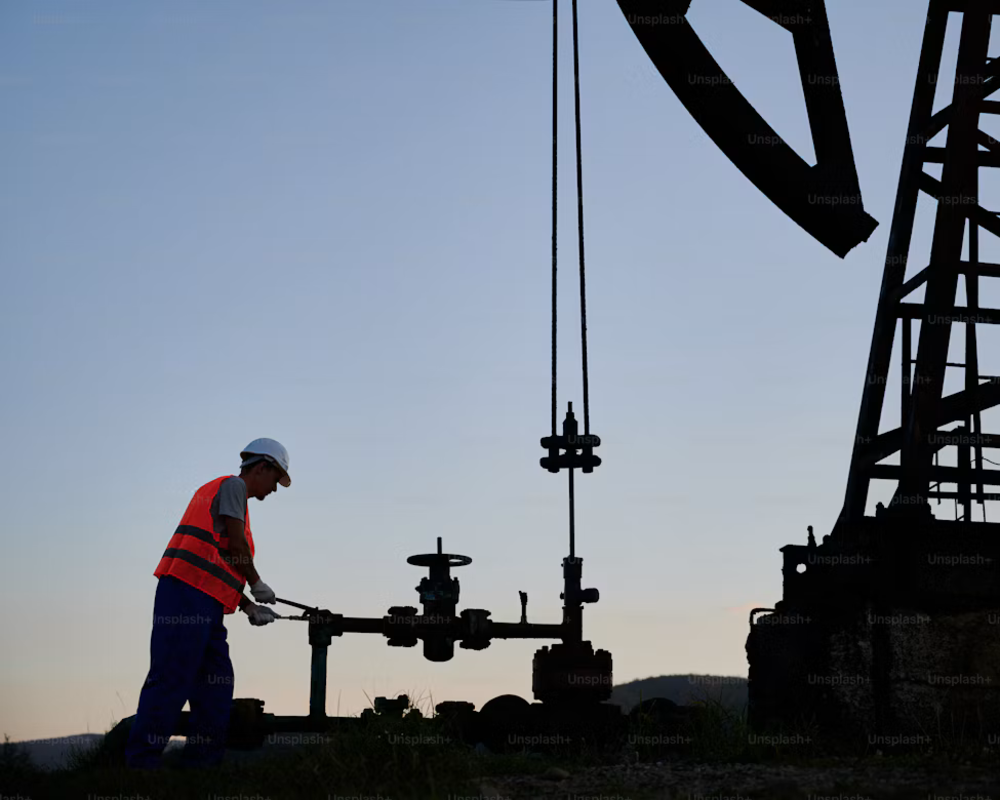
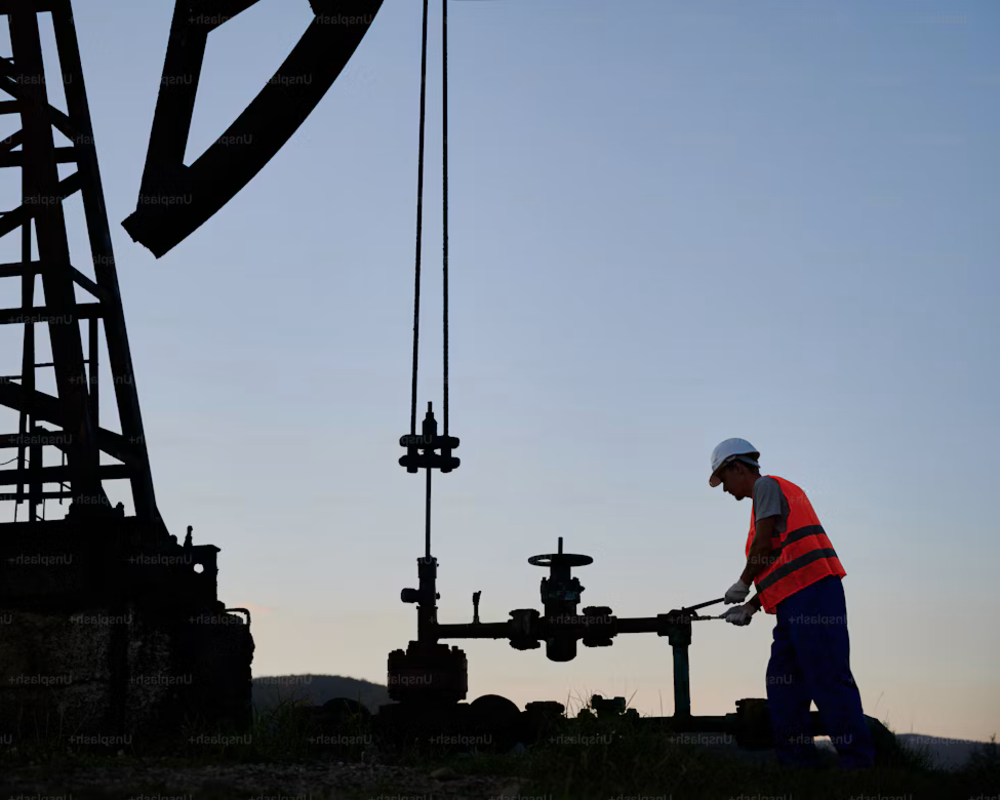
Mirror wellhead photo and put its thumbnail back on the left

diff --git a/home.css b/home.css
@@ -94,9 +94,6 @@
       box-shadow: 8px 8px 0 var(--green-soft);
       transition: transform 0.15s, box-shadow 0.15s;
     }
-    /* Slide 1's subject sits bottom-left, so its card moves to the other corner. */
-    .hc-media.thumb-right { margin: 0 32px 32px 0; }
-    .hc-media.thumb-right .hc-thumb { left: auto; right: -32px; }
     .hc-thumb:hover {
       color: inherit;
       transform: translate(-2px, -2px);
@@ -215,8 +212,6 @@
       .hc-media { margin: 0 0 24px 16px; }
       .hc-photo { aspect-ratio: 16 / 10; }
       .hc-thumb { left: -16px; bottom: -24px; width: 52%; }
-      .hc-media.thumb-right { margin: 0 16px 24px 0; }
-      .hc-media.thumb-right .hc-thumb { left: auto; right: -16px; }
       .hc-controls { margin-top: 48px; gap: 12px; }
       .hc-tabs { grid-template-columns: repeat(4, 1fr); gap: 8px; }
       .hc-tab { font-size: 0; padding-bottom: 16px; }

diff --git a/index.html b/index.html
@@ -27,7 +27,7 @@
                 <a href="hacks.html#demos" class="btn ghost">Live demos</a>
               </div>
             </div>
-            <figure class="hc-media thumb-right">
+            <figure class="hc-media">
               <div class="hc-photo"><img src="images/man-at-wellhead.png" alt="Field worker adjusting a wellhead valve beside a pumpjack" width="1000" height="800" fetchpriority="high"></div>
               <a class="hc-thumb" href="https://wellsite.sigilint.com/">
                 <div class="hc-thumb-img"><img src="images/sigilint-well-site.png" alt="" width="640" height="400" decoding="async"></div>
